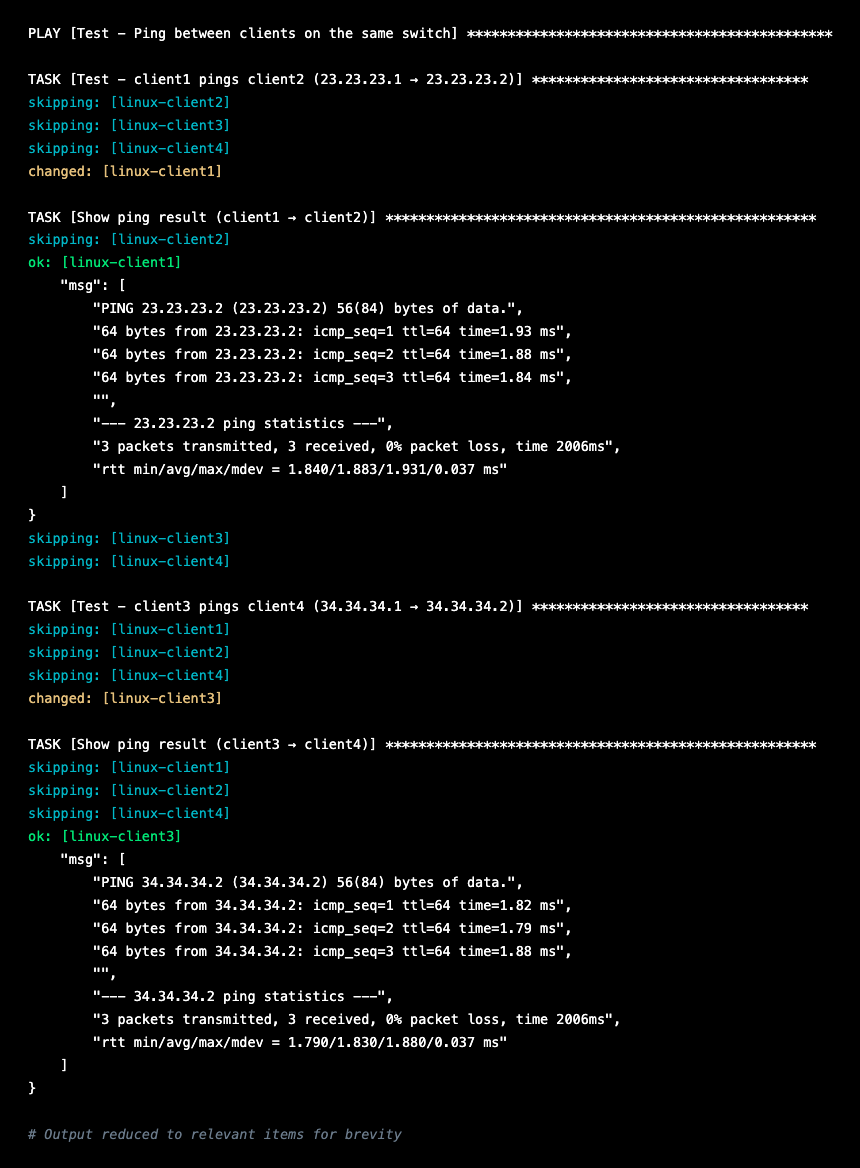
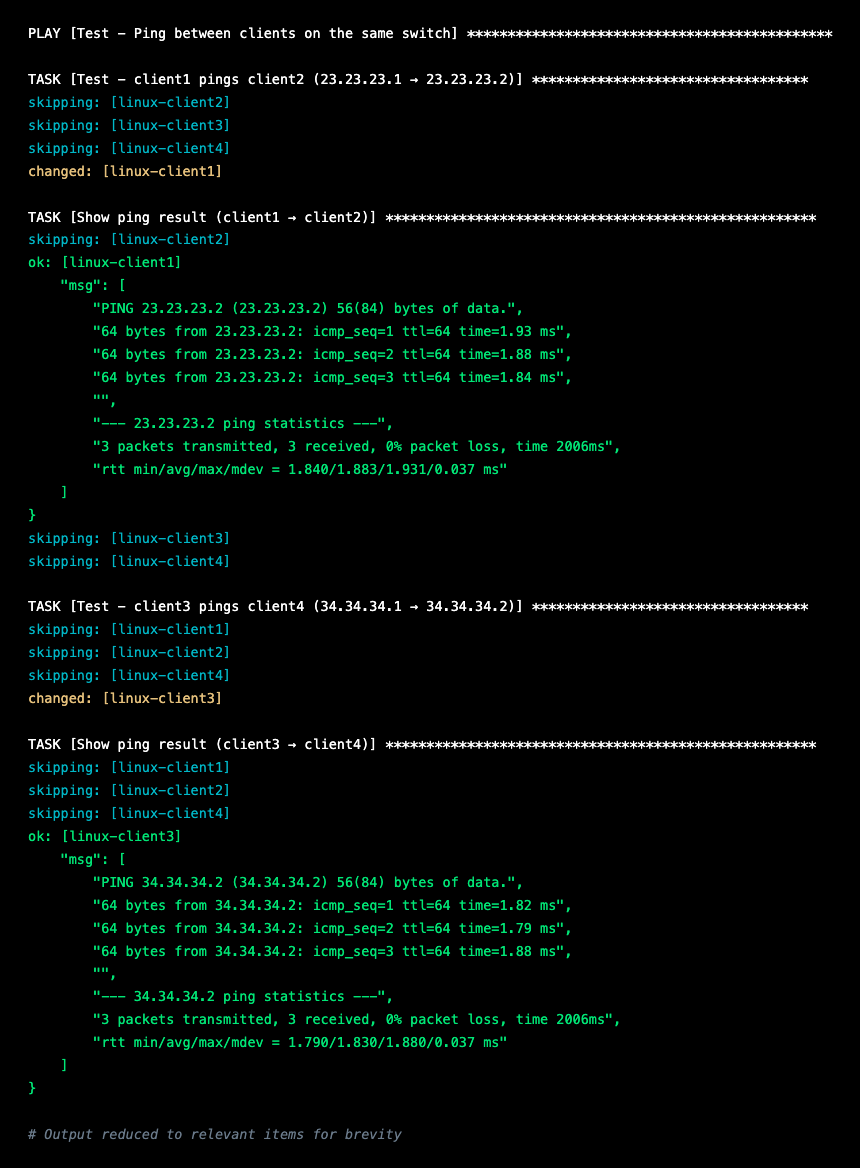
Deployed 083d132 with MkDocs version: 1.6.1

Changed region(s): [[0.1209, 0.2466, 0.6953, 0.4315], [0.1209, 0.7397, 0.6953, 0.8938], [0.0907, 0.7089, 0.1209, 0.7397]]

diff --git a/images/task1-remediate-ping-output.html b/images/task1-remediate-ping-output.html
@@ -43,17 +43,17 @@
 <span class="wh">TASK [Show ping result (client1 &#x2192; client2)] *****************************************************</span>
 <span class="skp">skipping: [linux-client2]</span>
 <span class="ok">ok: [linux-client1]</span> =&gt; {
-    <span class="wh">"msg": [</span>
-        <span class="wh">"PING 23.23.23.2 (23.23.23.2) 56(84) bytes of data.",</span>
-        <span class="wh">"64 bytes from 23.23.23.2: icmp_seq=1 ttl=64 time=1.93 ms",</span>
-        <span class="wh">"64 bytes from 23.23.23.2: icmp_seq=2 ttl=64 time=1.88 ms",</span>
-        <span class="wh">"64 bytes from 23.23.23.2: icmp_seq=3 ttl=64 time=1.84 ms",</span>
-        <span class="wh">"",</span>
-        <span class="wh">"--- 23.23.23.2 ping statistics ---",</span>
-        <span class="wh">"3 packets transmitted, 3 received, 0% packet loss, time 2006ms",</span>
-        <span class="wh">"rtt min/avg/max/mdev = 1.840/1.883/1.931/0.037 ms"</span>
-    <span class="wh">]</span>
-<span class="wh">}</span>
+    <span class="ok">"msg": [</span>
+        <span class="ok">"PING 23.23.23.2 (23.23.23.2) 56(84) bytes of data.",</span>
+        <span class="ok">"64 bytes from 23.23.23.2: icmp_seq=1 ttl=64 time=1.93 ms",</span>
+        <span class="ok">"64 bytes from 23.23.23.2: icmp_seq=2 ttl=64 time=1.88 ms",</span>
+        <span class="ok">"64 bytes from 23.23.23.2: icmp_seq=3 ttl=64 time=1.84 ms",</span>
+        <span class="ok">"",</span>
+        <span class="ok">"--- 23.23.23.2 ping statistics ---",</span>
+        <span class="ok">"3 packets transmitted, 3 received, 0% packet loss, time 2006ms",</span>
+        <span class="ok">"rtt min/avg/max/mdev = 1.840/1.883/1.931/0.037 ms"</span>
+    <span class="ok">]</span>
+<span class="ok">}</span>
 <span class="skp">skipping: [linux-client3]</span>
 <span class="skp">skipping: [linux-client4]</span>
 
@@ -68,17 +68,17 @@
 <span class="skp">skipping: [linux-client2]</span>
 <span class="skp">skipping: [linux-client4]</span>
 <span class="ok">ok: [linux-client3]</span> =&gt; {
-    <span class="wh">"msg": [</span>
-        <span class="wh">"PING 34.34.34.2 (34.34.34.2) 56(84) bytes of data.",</span>
-        <span class="wh">"64 bytes from 34.34.34.2: icmp_seq=1 ttl=64 time=1.82 ms",</span>
-        <span class="wh">"64 bytes from 34.34.34.2: icmp_seq=2 ttl=64 time=1.79 ms",</span>
-        <span class="wh">"64 bytes from 34.34.34.2: icmp_seq=3 ttl=64 time=1.88 ms",</span>
-        <span class="wh">"",</span>
-        <span class="wh">"--- 34.34.34.2 ping statistics ---",</span>
-        <span class="wh">"3 packets transmitted, 3 received, 0% packet loss, time 2006ms",</span>
-        <span class="wh">"rtt min/avg/max/mdev = 1.790/1.830/1.880/0.037 ms"</span>
-    <span class="wh">]</span>
-<span class="wh">}</span>
+    <span class="ok">"msg": [</span>
+        <span class="ok">"PING 34.34.34.2 (34.34.34.2) 56(84) bytes of data.",</span>
+        <span class="ok">"64 bytes from 34.34.34.2: icmp_seq=1 ttl=64 time=1.82 ms",</span>
+        <span class="ok">"64 bytes from 34.34.34.2: icmp_seq=2 ttl=64 time=1.79 ms",</span>
+        <span class="ok">"64 bytes from 34.34.34.2: icmp_seq=3 ttl=64 time=1.88 ms",</span>
+        <span class="ok">"",</span>
+        <span class="ok">"--- 34.34.34.2 ping statistics ---",</span>
+        <span class="ok">"3 packets transmitted, 3 received, 0% packet loss, time 2006ms",</span>
+        <span class="ok">"rtt min/avg/max/mdev = 1.790/1.830/1.880/0.037 ms"</span>
+    <span class="ok">]</span>
+<span class="ok">}</span>
 
 <span class="cm"># Output reduced to relevant items for brevity</span></pre>
 </div>